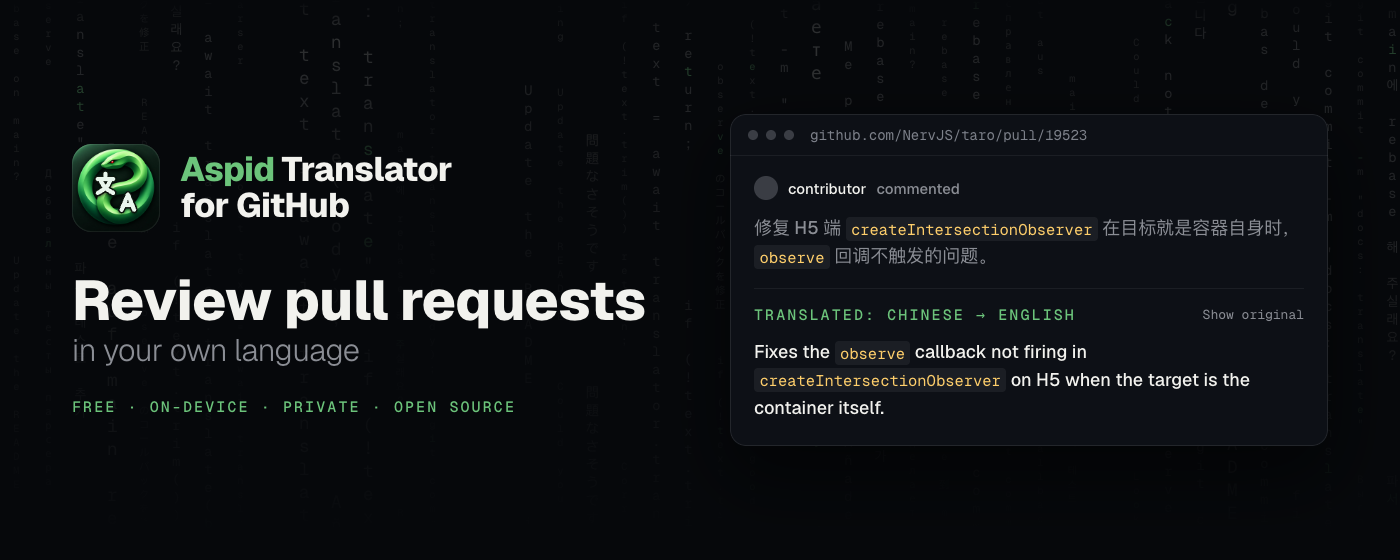
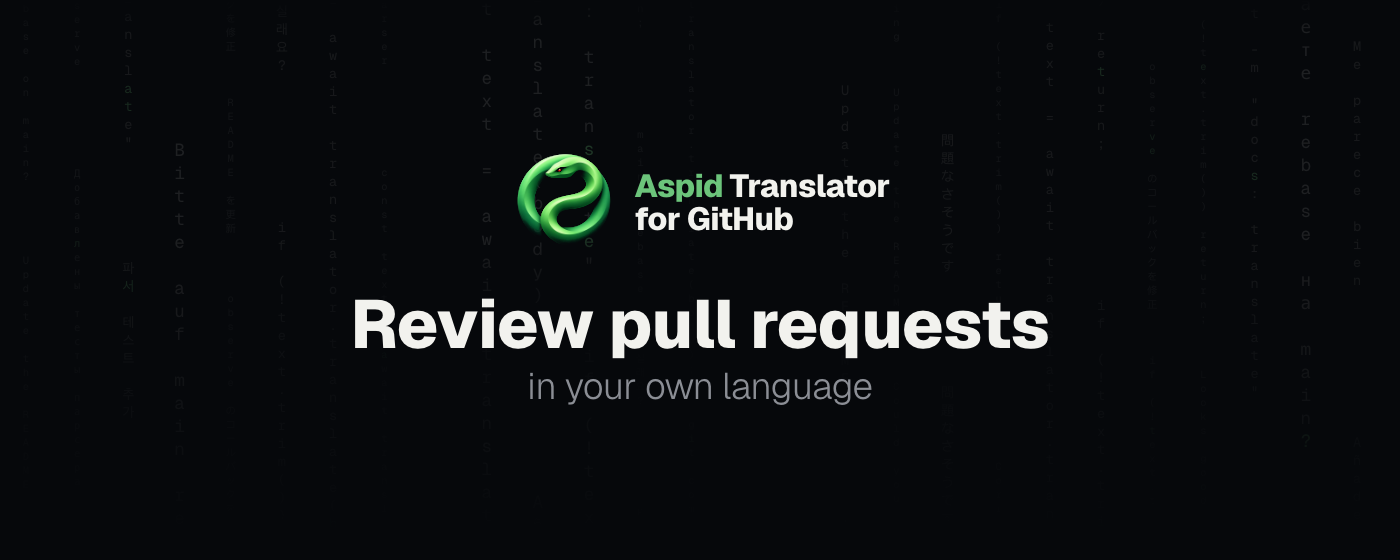
chore(store): calmer promo tiles with a frameless snake mark
- assets/icon.mjs writes icon-mark.svg: the snake keyed off its tile, no glyphs
- Marquee drops the comment window and the label line, and centres the text
- Small tile drops the label line; both tiles use the new mark
- rain.js takes gap and opacity, for a sparser and dimmer rain on the tiles

diff --git a/store/promo/marquee.html b/store/promo/marquee.html
@@ -6,40 +6,26 @@
 <link rel="stylesheet" href="promo.css">
 <style>
   body { width: 1400px; height: 560px; }
-  .tile { height: 100%; display: grid; grid-template-columns: 610px 1fr; align-items: center; padding: 0 72px; gap: 48px; }
-  .brand { gap: 20px; }
-  .brand img { width: 88px; height: 88px; }
-  .name { font-size: 34px; }
-  .head { margin: 40px 0 30px; font-size: 56px; }
-  .head span { font-size: 31px; margin-top: 6px; }
-  .label { font-size: 15px; }
-  .bar { height: 42px; }
+  .tile { height: 100%; display: flex; flex-direction: column; align-items: center; justify-content: center; text-align: center; }
+  .brand { gap: 16px; }
+  .brand img { width: 108px; height: 108px; margin: -6px 0; }
+  .name { font-size: 32px; text-align: left; }
+  .head { margin: 40px 0 0; font-size: 68px; }
+  .head span { font-size: 37px; margin-top: 8px; }
 </style>
 </head>
 <body>
 <div class="tile stage">
   <canvas class="rain"></canvas>
-  <div data-clear>
-    <div class="brand">
-      <img src="../../assets/icon.svg" alt="">
-      <div class="name"><em>Aspid</em> Translator<br>for GitHub</div>
-    </div>
-    <h1 class="head"><strong>Review pull requests</strong><span>in your own language</span></h1>
-    <div class="label">Free · On-device · Private · Open source</div>
+  <div class="brand" data-clear>
+    <img src="../../assets/icon-mark.svg" alt="">
+    <div class="name"><em>Aspid</em> Translator<br>for GitHub</div>
   </div>
-  <div class="window">
-    <div class="bar"><i></i><i></i><i></i><span>github.com/NervJS/taro/pull/19523</span></div>
-    <div class="comment">
-      <div class="who"><span class="avatar"></span><b>contributor</b> commented</div>
-      <p class="text original">修复 H5 端 <code>createIntersectionObserver</code> 在目标就是容器自身时，<code>observe</code> 回调不触发的问题。</p>
-      <div class="turn"><span class="label">Translated: Chinese → English</span><a>Show original</a></div>
-      <p class="text">Fixes the <code>observe</code> callback not firing in <code>createIntersectionObserver</code> on H5 when the target is the container itself.</p>
-    </div>
-  </div>
+  <h1 class="head" data-clear><strong>Review pull requests</strong><span>in your own language</span></h1>
 </div>
 <script src="rain.js"></script>
 <script>
-  window.rendered = drawRain(document.querySelector('.rain'), { scale: 0.8, clear: document.querySelectorAll('[data-clear]') });
+  window.rendered = drawRain(document.querySelector('.rain'), { scale: 0.8, gap: 1.6, opacity: 0.6, clear: document.querySelectorAll('[data-clear]') });
 </script>
 </body>
 </html>

diff --git a/store/promo/rain.js b/store/promo/rain.js
@@ -46,9 +46,9 @@ function textBox(element) {
   return right > left ? { left, top, width: right - left, height: bottom - top } : null;
 }
 
-// Draws the rain on `canvas`; `scale` sizes it against the film's 1920×1080 frame, `clear` lists the
-// elements to thin it out behind.
-async function drawRain(canvas, { scale = 1, seed = 7, clear = [] } = {}) {
+// Draws the rain on `canvas`; `scale` sizes it against the film's 1920×1080 frame, `gap` widens the
+// space between columns, `opacity` dims it, and `clear` lists the elements to thin it out behind.
+async function drawRain(canvas, { scale = 1, gap = 1, opacity = 1, seed = 7, clear = [] } = {}) {
   await document.fonts.load(`${Math.round(22 * scale)}px "Geist Mono"`);
   await document.fonts.ready;
   const box = canvas.getBoundingClientRect();
@@ -62,7 +62,7 @@ async function drawRain(canvas, { scale = 1, seed = 7, clear = [] } = {}) {
 
   const random = rainRandom(seed);
   const layers = [{ size: 13, alpha: 0.08 }, { size: 17, alpha: 0.12 }, { size: 22, alpha: 0.17 }];
-  const step = 40 * scale;
+  const step = 40 * scale * gap;
   for (let x = step / 2, column = 0; x < width + step; x += step, column++) {
     if (column > 1 && random() < 0.08) continue; // a rare empty column, never at the left edge
     const layer = layers[random() < 0.42 ? 0 : random() < 0.62 ? 1 : 2];
@@ -79,8 +79,8 @@ async function drawRain(canvas, { scale = 1, seed = 7, clear = [] } = {}) {
       const char = text[(start + r) % text.length];
       if (char === ' ') continue;
       g.fillStyle = random() < 0.05
-        ? `rgba(108, 196, 123, ${Math.min(layer.alpha * 2.4, 0.9)})`
-        : `rgba(242, 242, 238, ${layer.alpha})`;
+        ? `rgba(108, 196, 123, ${Math.min(layer.alpha * 2.4, 0.9) * opacity})`
+        : `rgba(242, 242, 238, ${layer.alpha * opacity})`;
       g.fillText(char, x, y);
     }
   }

diff --git a/store/promo/promo.css b/store/promo/promo.css
@@ -20,7 +20,6 @@
   --promo-rule: rgba(255, 255, 255, 0.06);
   --promo-window-title: #7d818a;
   --promo-window-dot: #3a3d44;
-  --promo-syntax-function: #ffcf6b;
   --radius-window: 16px;
   --shadow-promo-window: 0 30px 70px rgba(0, 0, 0, 0.55);
   --font-promo: 'Geist', system-ui, sans-serif;
@@ -92,22 +91,3 @@ body {
 
 .bar i { flex: none; width: 10px; height: 10px; border-radius: 50%; background: var(--promo-window-dot); }
 .bar span { margin-left: 8px; overflow: hidden; text-overflow: ellipsis; }
-
-/* A pull request comment, as the extension shows it, in the window's colours. */
-.comment { padding: 20px 24px 24px; font-family: var(--font-promo); }
-.who { display: flex; align-items: center; gap: 10px; color: var(--promo-sub); font-size: 15px; }
-.who b { color: var(--promo-ink); font-weight: 500; }
-.avatar { width: 24px; height: 24px; border-radius: 50%; background: var(--promo-window-dot); }
-.text { margin: 14px 0 0; font-size: 18px; line-height: 1.55; }
-.text.original { color: var(--promo-sub); }
-.turn { display: flex; align-items: center; gap: 14px; margin-top: 18px; padding-top: 16px; border-top: 1px solid var(--promo-rule); font-size: 12px; }
-.turn .label { flex: 1; }
-.turn a { color: var(--promo-sub); font: 400 13px var(--font-promo-mono); }
-
-.text code {
-  padding: 0.1em 0.35em;
-  border-radius: 4px;
-  color: var(--promo-syntax-function);
-  background: rgba(255, 255, 255, 0.06);
-  font: 400 0.86em var(--font-promo-mono);
-}

diff --git a/store/promo/small-tile.html b/store/promo/small-tile.html
@@ -7,27 +7,25 @@
 <style>
   body { width: 440px; height: 280px; }
   .tile { height: 100%; display: flex; flex-direction: column; justify-content: center; padding: 0 36px; }
-  .brand { gap: 14px; }
-  .brand img { width: 60px; height: 60px; }
+  .brand { gap: 10px; }
+  .brand img { width: 74px; height: 74px; margin: -6px 0 -6px -4px; }
   .name { font-size: 22px; }
-  .head { margin: 24px 0 18px; font-size: 30px; }
+  .head { margin: 24px 0 0; font-size: 30px; }
   .head span { font-size: 17px; margin-top: 4px; }
-  .label { font-size: 11px; }
 </style>
 </head>
 <body>
 <div class="tile stage">
   <canvas class="rain"></canvas>
   <div class="brand" data-clear>
-    <img src="../../assets/icon.svg" alt="">
+    <img src="../../assets/icon-mark.svg" alt="">
     <div class="name"><em>Aspid</em> Translator<br>for GitHub</div>
   </div>
   <h1 class="head" data-clear><strong>Review pull requests</strong><span>in your own language</span></h1>
-  <div class="label">Free · On-device · Private</div>
 </div>
 <script src="rain.js"></script>
 <script>
-  window.rendered = drawRain(document.querySelector('.rain'), { scale: 0.55, clear: document.querySelectorAll('[data-clear]') });
+  window.rendered = drawRain(document.querySelector('.rain'), { scale: 0.55, gap: 1.6, opacity: 0.6, clear: document.querySelectorAll('[data-clear]') });
 </script>
 </body>
 </html>
